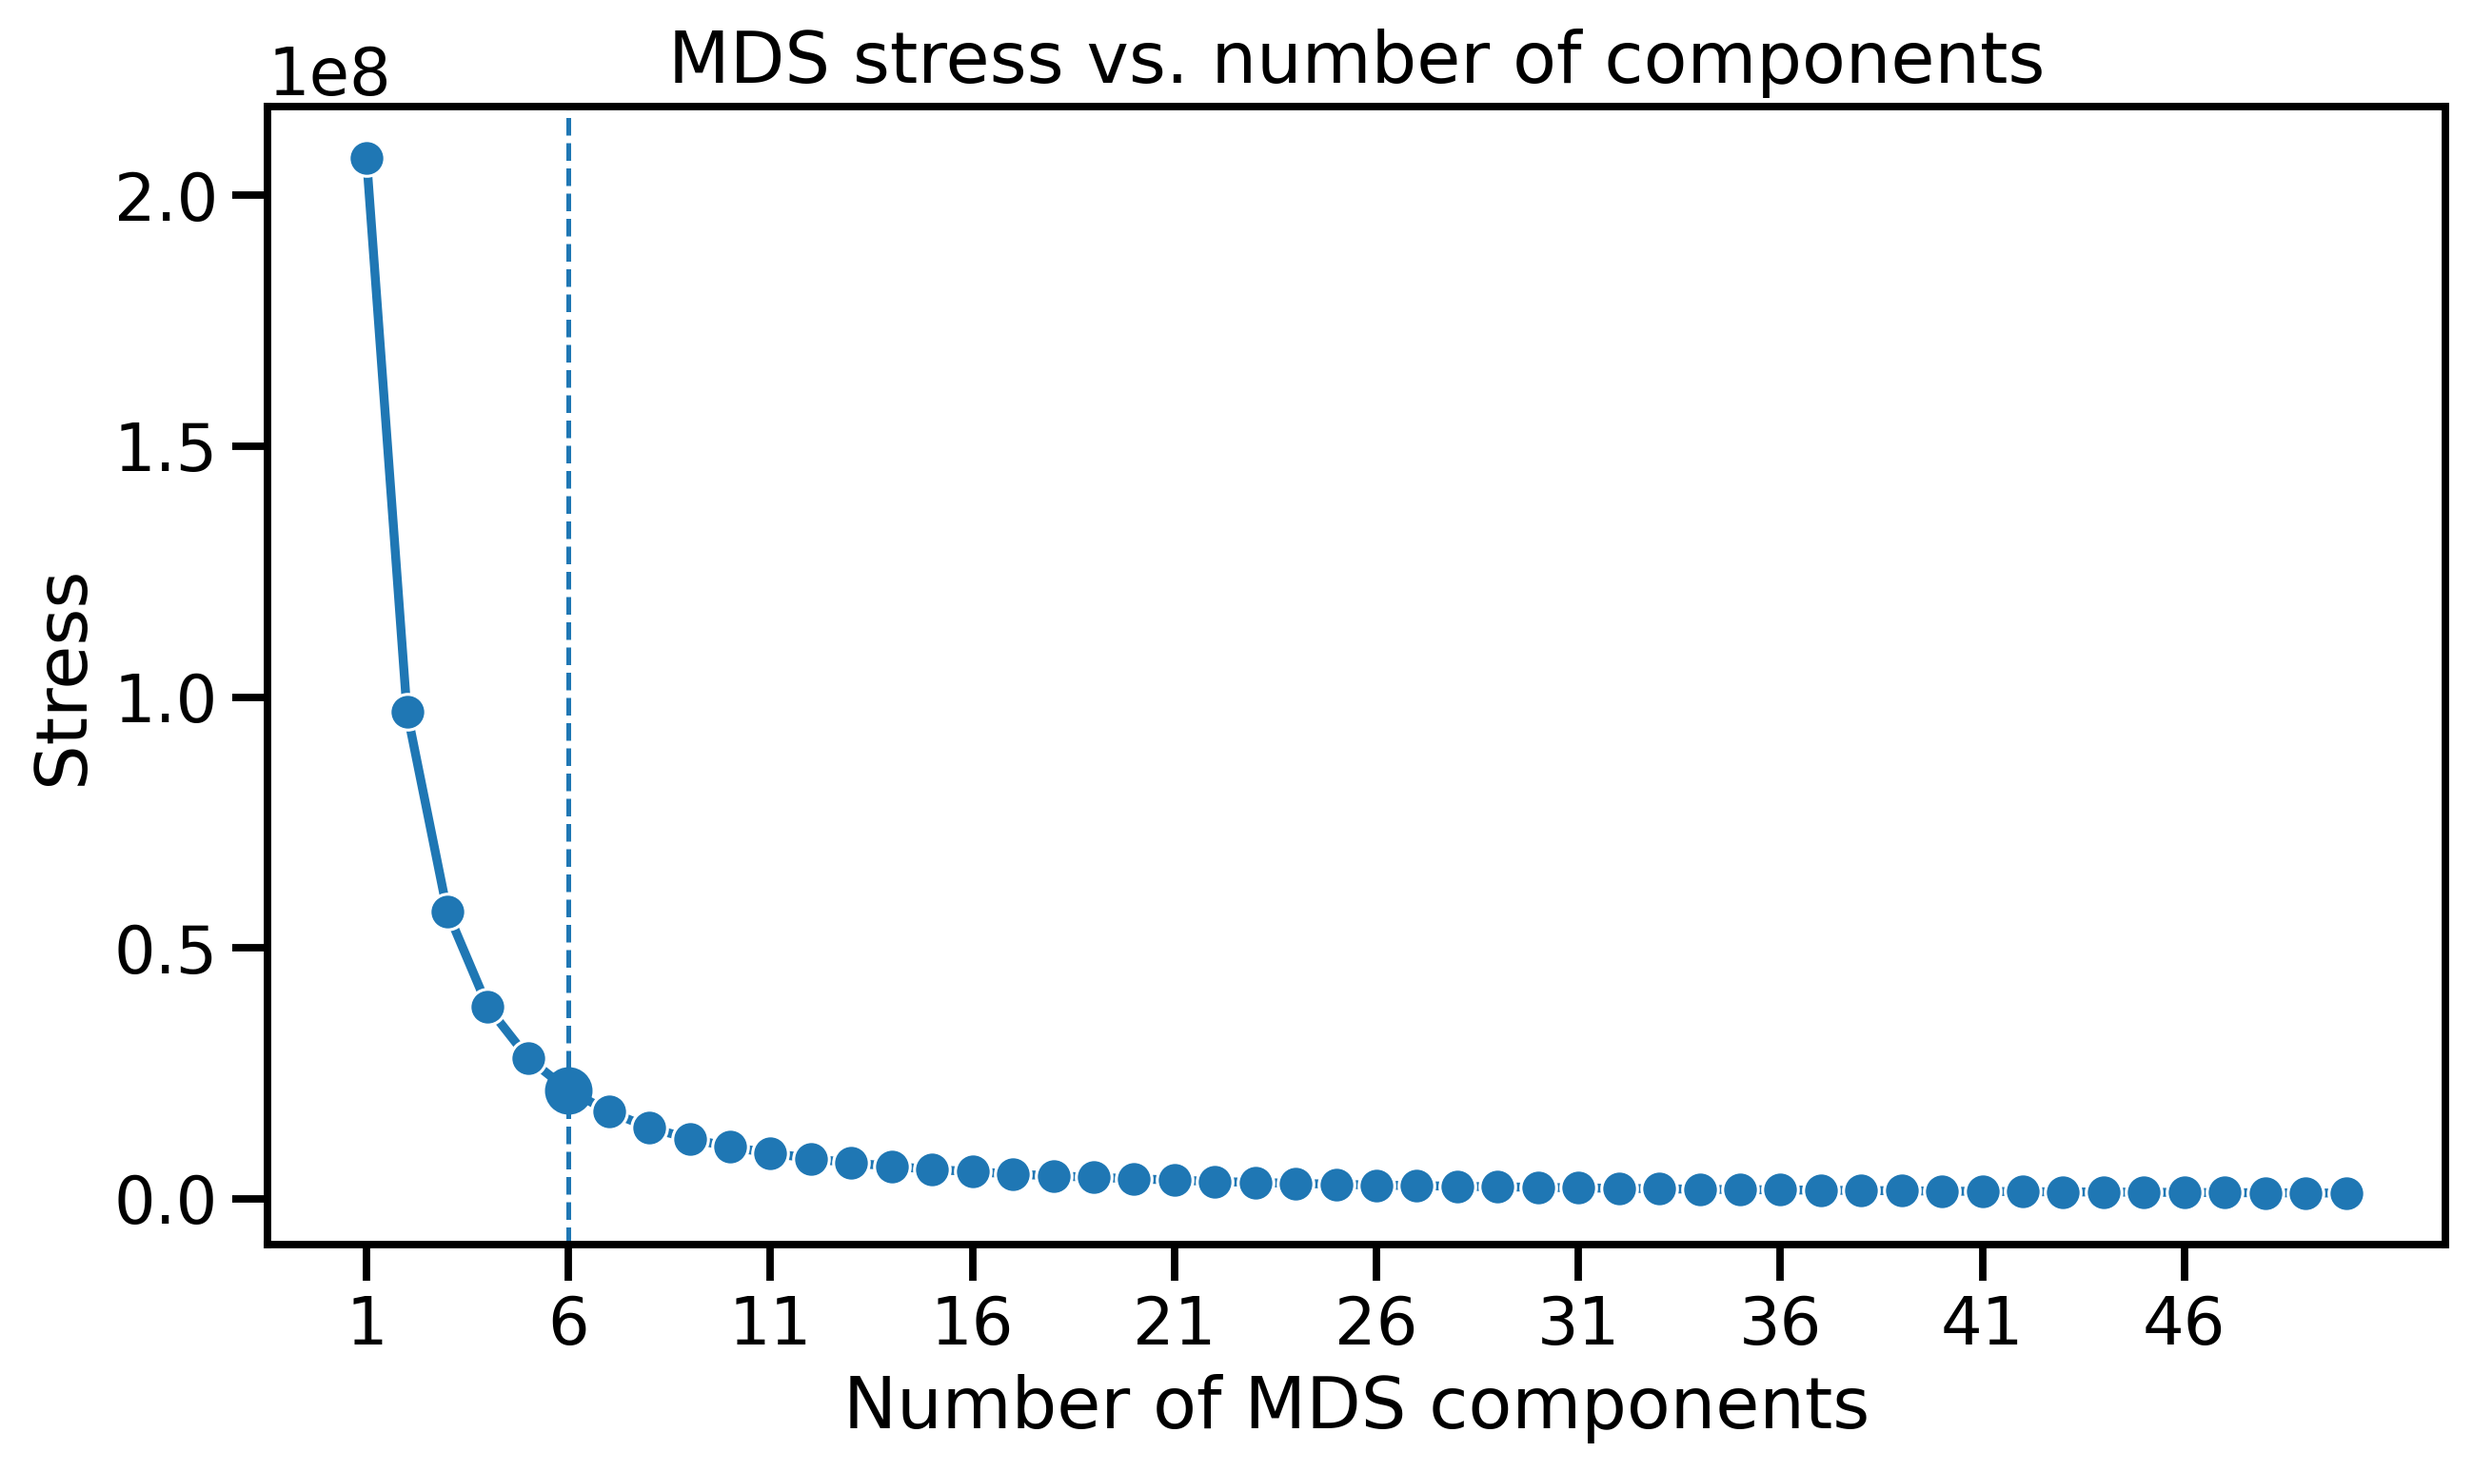
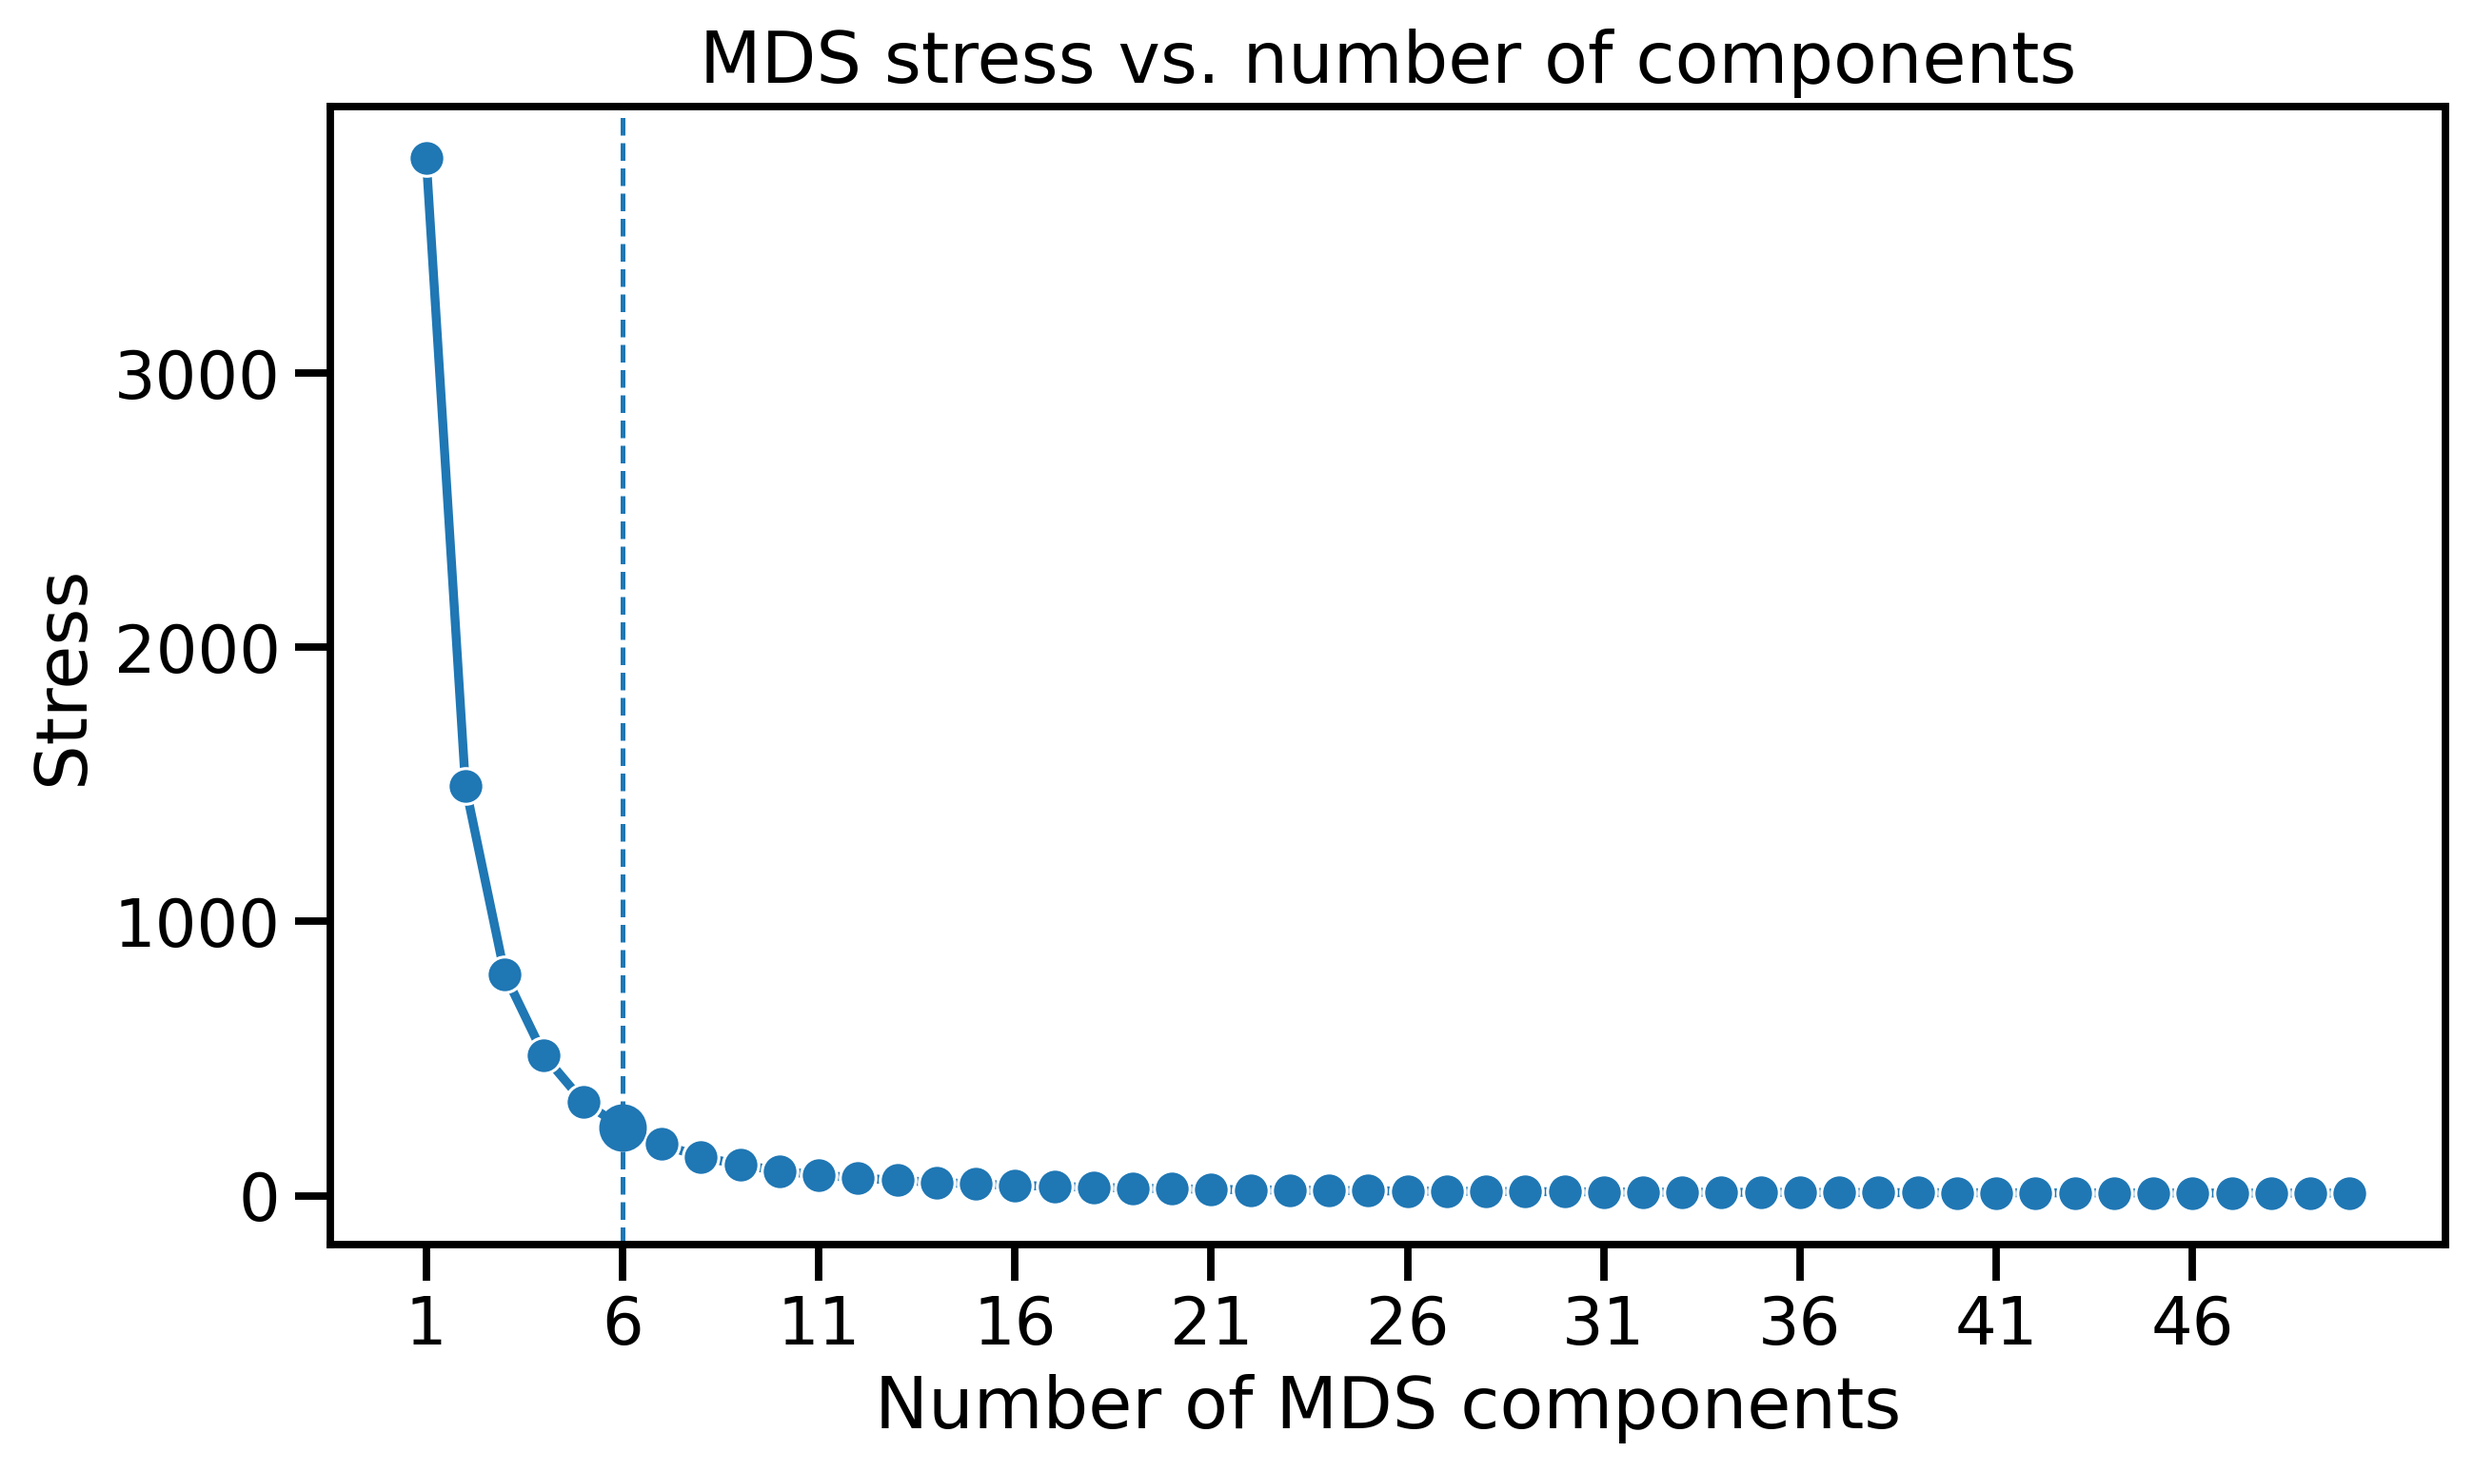
clinician response embedding

diff --git a/clinician_gemini_mds.py b/clinician_gemini_mds.py
@@ -8,7 +8,7 @@ What this script does
 2. Extracts all columns whose names begin with:
        "How would you personally respond to this case?"
 3. Reshapes them into a long table: one row per (clinician, case).
-4. Loads GOOGLE_API_KEY automatically from a .env file.
+4. Loads GOOGLE API key automatically from a .env file.
 5. Calls Gemini embeddings ("gemini-embedding-001") on each clinician response.
 6. Runs metric MDS for a wide range of embedding dimensions.
 7. Plots stress vs. number of MDS components.
@@ -20,14 +20,14 @@ Requirements
 ------------
 pip install pandas numpy matplotlib seaborn scikit-learn openpyxl google-genai python-dotenv
 """
-#%%
+
 from __future__ import annotations
 
 import argparse
 import os
 import time
 from pathlib import Path
-from typing import List, Tuple
+from typing import List, Tuple, Dict
 
 import numpy as np
 import pandas as pd
@@ -36,6 +36,7 @@ import seaborn as sns
 
 from sklearn.manifold import MDS
 from sklearn.preprocessing import StandardScaler
+from sklearn.metrics.pairwise import cosine_distances
 from dotenv import load_dotenv
 
 try:
@@ -46,14 +47,13 @@ except ImportError as e:
     ) from e
 
 
+# Load .env once at startup
 load_dotenv()
-#%%
+
 RESPONSE_PREFIX = "How would you personally respond to this case?"
 YEARS_COL = "How many years of experience do you have in your field?"
 SPECIALTY_COL = "What is your medical specialty?"
 NAME_COLS = ["First name", "Last name"]
-
-# Force consistent hue handling for all 17 cases
 TOTAL_CASES = 17
 
 
@@ -106,11 +106,19 @@ def load_clinician_responses(
 
 
 def make_genai_client(api_key: str | None = None):
-    api_key = api_key or os.environ.get("GOOGLE_GENERATIVE_AI_API_KEY")
+    """
+    Create Gemini client using .env or shell environment.
+    Tries both GOOGLE_GENERATIVE_AI_API_KEY and GOOGLE_API_KEY.
+    """
+    api_key = (
+        api_key
+        or os.environ.get("GOOGLE_GENERATIVE_AI_API_KEY")
+        or os.environ.get("GOOGLE_API_KEY")
+    )
 
     if not api_key:
         raise EnvironmentError(
-            "GOOGLE_API_KEY not found. Put it in your .env file or export it in the environment."
+            "No Gemini API key found. Put GOOGLE_GENERATIVE_AI_API_KEY or GOOGLE_API_KEY in your .env file."
         )
 
     return genai.Client(api_key=api_key)
@@ -146,7 +154,10 @@ def get_gemini_embedding(
             last_err = e
             if attempt == max_retries - 1:
                 break
-            print(f"Embedding failed on attempt {attempt + 1}/{max_retries}. Retrying in {sleep_s:.1f}s...")
+            print(
+                f"Embedding failed on attempt {attempt + 1}/{max_retries}. "
+                f"Retrying in {sleep_s:.1f}s..."
+            )
             time.sleep(sleep_s)
             sleep_s *= 2.0
 
@@ -186,18 +197,24 @@ def fit_mds_range(
     max_components: int = 50,
     random_state: int = 42,
     normalize_before_mds: bool = False,
-) -> Tuple[pd.DataFrame, dict]:
+    distance_metric: str = "cosine",   # "cosine" or "euclidean"
+) -> Tuple[pd.DataFrame, Dict[int, np.ndarray]]:
     """
     Run metric MDS across a range of target dimensions.
+
+    For cosine MDS, computes pairwise cosine distance matrix first and then
+    uses MDS with dissimilarity="precomputed".
 
     Returns:
         stress_df with columns [n_components, stress]
         projections dict: k -> projected array of shape (n_samples, k)
     """
-    if normalize_before_mds:
-        X = StandardScaler().fit_transform(X)
+    X_work = X.copy()
 
-    max_allowed = min(X.shape[0] - 1, X.shape[1])
+    if normalize_before_mds:
+        X_work = StandardScaler().fit_transform(X_work)
+
+    max_allowed = min(X_work.shape[0] - 1, X_work.shape[1])
     max_components = min(max_components, max_allowed)
 
     if max_components < min_components:
@@ -205,8 +222,17 @@ def fit_mds_range(
 
     print(f"Requested MDS sweep up to {max_components} dimensions (max allowed = {max_allowed})")
 
+    if distance_metric == "euclidean":
+        mds_input = X_work
+        dissimilarity_mode = "euclidean"
+    elif distance_metric == "cosine":
+        mds_input = cosine_distances(X_work)
+        dissimilarity_mode = "precomputed"
+    else:
+        raise ValueError("distance_metric must be either 'euclidean' or 'cosine'.")
+
     stress_rows = []
-    projections = {}
+    projections: Dict[int, np.ndarray] = {}
 
     for k in range(min_components, max_components + 1):
         mds = MDS(
@@ -215,11 +241,11 @@ def fit_mds_range(
             n_init=4,
             max_iter=300,
             eps=1e-6,
-            dissimilarity="euclidean",
+            dissimilarity=dissimilarity_mode,
             normalized_stress="auto",
             random_state=random_state,
         )
-        X_proj = mds.fit_transform(X)
+        X_proj = mds.fit_transform(mds_input)
         stress_rows.append({"n_components": k, "stress": float(mds.stress_)})
         projections[k] = X_proj
         print(f"Finished MDS for k={k}, stress={mds.stress_:.4f}")
@@ -273,7 +299,6 @@ def save_stress_plot(
         marker="o",
     )
 
-    # Highlight elbow
     ax.axvline(optimal_k, linestyle="--", linewidth=1.2)
     ax.scatter(
         [optimal_k],
@@ -286,22 +311,25 @@ def save_stress_plot(
     ax.set_xlabel("Number of MDS components")
     ax.set_ylabel("Stress")
 
-    # -------- KEY FIX --------
-    # Sparse tick labeling (adaptive)
-    max_k = stress_df["n_components"].max()
+    max_k = int(stress_df["n_components"].max())
 
     if max_k <= 20:
-        ticks = list(range(1, max_k + 1, 5))
+        ticks = list(range(1, max_k + 1, 2))
     elif max_k <= 50:
         ticks = list(range(1, max_k + 1, 5))
     else:
-        ticks = list(range(1, max_k + 1, 5))  
+        ticks = list(range(1, max_k + 1, 10))
+
+    if optimal_k not in ticks:
+        ticks.append(optimal_k)
+        ticks = sorted(set(ticks))
 
     ax.set_xticks(ticks)
 
     plt.tight_layout()
     plt.savefig(outpath, dpi=300, bbox_inches="tight")
     plt.close()
+
 
 def save_pairplot(
     projected_df: pd.DataFrame,
@@ -311,7 +339,7 @@ def save_pairplot(
 ) -> None:
     """
     Create pairplot of projected MDS dimensions with consistent coloring
-    across all 17 cases.
+    across all cases.
     """
     sns.set_context("talk")
 
@@ -323,12 +351,12 @@ def save_pairplot(
 
     if "case_num" in df_plot.columns:
         hue_col = "case_num"
-
-        # Force all 17 cases into the categorical order, even if some are missing
         hue_order = list(range(1, total_cases + 1))
-        df_plot[hue_col] = pd.Categorical(df_plot[hue_col], categories=hue_order, ordered=True)
-
-        # Enough distinct colors for 17 classes
+        df_plot[hue_col] = pd.Categorical(
+            df_plot[hue_col],
+            categories=hue_order,
+            ordered=True
+        )
         palette = sns.color_palette("husl", n_colors=total_cases)
 
     cols = dims_to_plot.copy()
@@ -404,6 +432,18 @@ def main():
         default=17,
         help="Total number of cases for consistent color coding",
     )
+    parser.add_argument(
+        "--normalize_before_mds",
+        action="store_true",
+        help="If set, standardize embeddings before MDS. Off by default.",
+    )
+    parser.add_argument(
+        "--distance_metric",
+        type=str,
+        default="cosine",
+        choices=["cosine", "euclidean"],
+        help="Distance metric used by MDS.",
+    )
     args = parser.parse_args()
 
     outdir = Path(args.outdir)
@@ -435,7 +475,8 @@ def main():
         min_components=1,
         max_components=args.max_components,
         random_state=42,
-        normalize_before_mds=True,
+        normalize_before_mds=args.normalize_before_mds,
+        distance_metric=args.distance_metric,
     )
     stress_df.to_csv(outdir / "mds_stress_by_components.csv", index=False)
 
